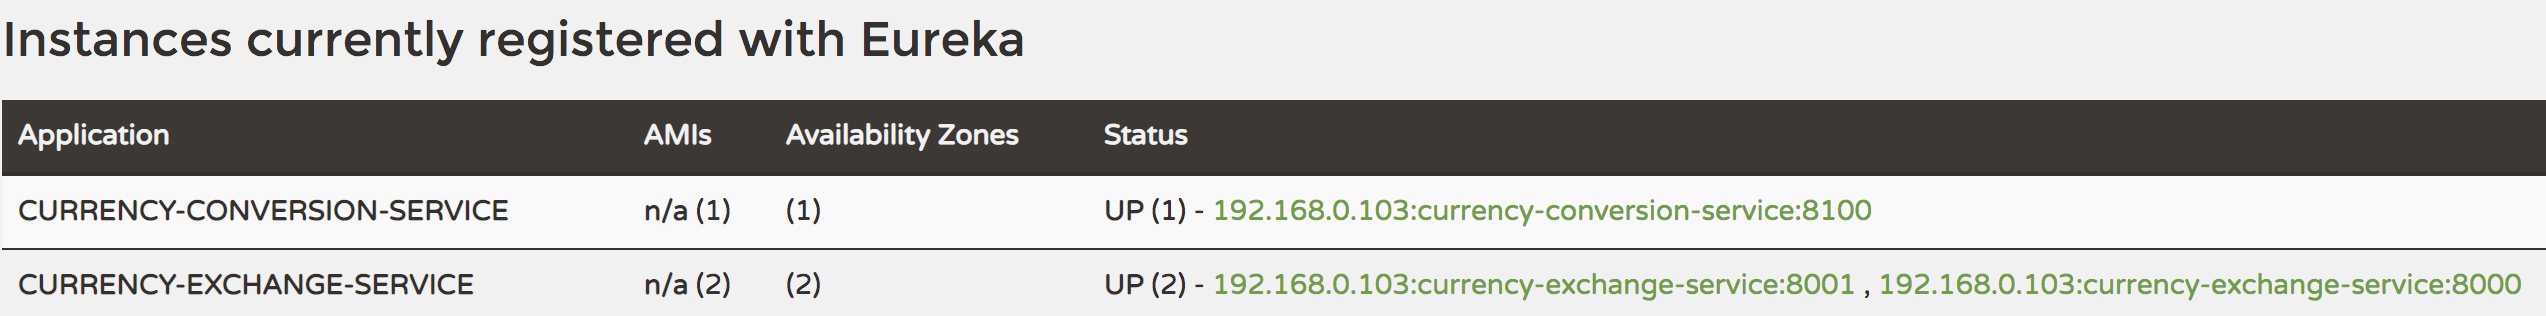
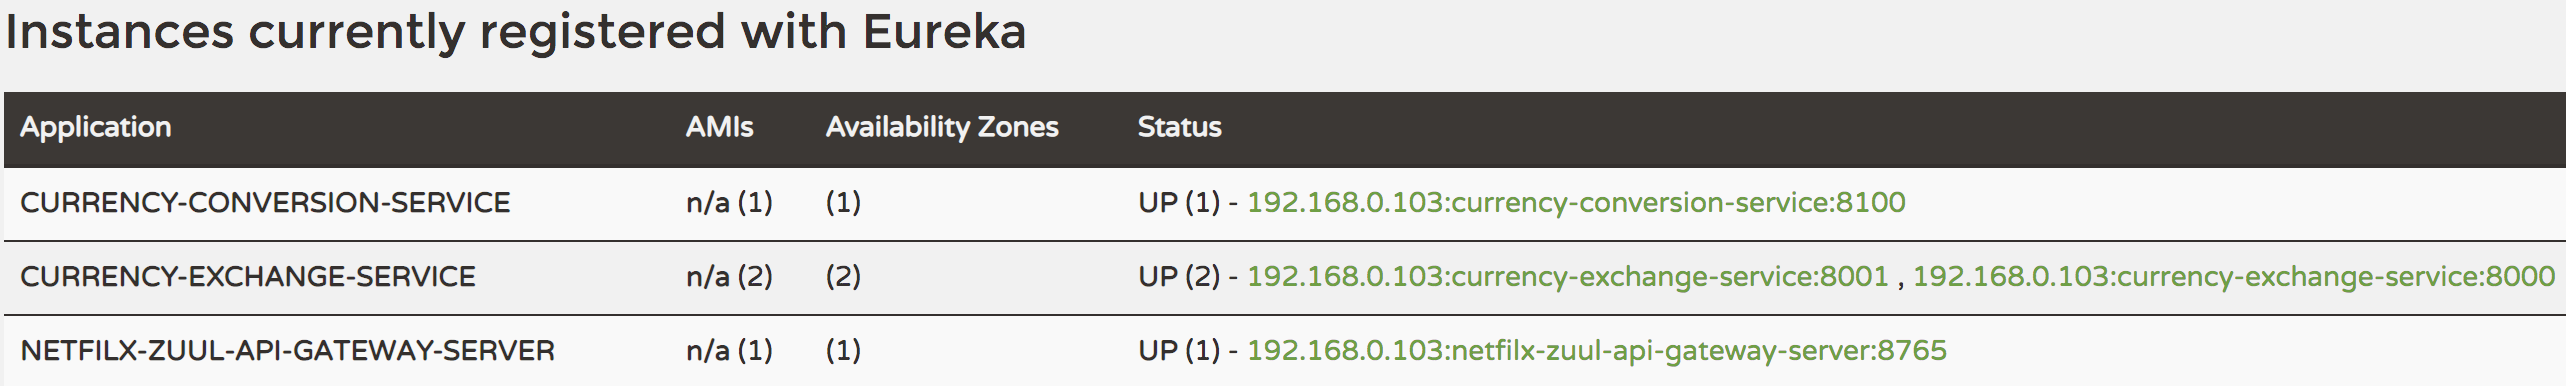
[netfilx-zuul] added logging filter in zuul api server

diff --git a/netfilx-zuul-api-gateway-server/src/main/java/org/hsahu/microservices/zuulserver/ZuulLoggingFilter.java b/netfilx-zuul-api-gateway-server/src/main/java/org/hsahu/microservices/zuulserver/ZuulLoggingFilter.java
@@ -1,0 +1,64 @@
+package org.hsahu.microservices.zuulserver;
+
+import com.netflix.zuul.ZuulFilter;
+import com.netflix.zuul.context.RequestContext;
+import com.netflix.zuul.exception.ZuulException;
+import lombok.extern.slf4j.Slf4j;
+import org.springframework.stereotype.Component;
+
+import javax.servlet.http.HttpServletRequest;
+
+/**
+ * Zuul filtering that does only logging, other filters can be related to
+ * rate limiting, logging, security etc.
+ */
+@Slf4j
+@Component
+public class ZuulLoggingFilter extends ZuulFilter {
+
+    /**
+     * to classify a filter by type. Standard types in Zuul are
+     * "pre" for pre-routing filtering (before executing the request),
+     * "post" for post-routing filters (after executing the request),
+     * "error" for error handling (when request execution hs thrown any error).
+     *
+     * @return A String representing that type
+     */
+    @Override
+    public String filterType() {
+        return "pre";
+    }
+
+    /**
+     * if multiple ZuulFilters are added, filters will be applied based or ordering
+     *
+     * @return the int order of a filter
+     */
+    @Override
+    public int filterOrder() {
+        return 1;
+    }
+
+    /**
+     * a "true" return from this method means that the run() method should be invoked
+     *
+     * @return true if the run() method should be invoked. false will not invoke the run() method
+     */
+    @Override
+    public boolean shouldFilter() {
+        return true;
+    }
+
+    /**
+     * if shouldFilter() is true, this method will be invoked. this method is the core method of a ZuulFilter
+     *
+     * @throws ZuulException if an error occurs during execution.
+     */
+    @Override
+    public Object run() throws ZuulException {
+        HttpServletRequest request = RequestContext.getCurrentContext().getRequest();
+        // just log the request
+        log.info("request -> {}, request URI -> {}", request, request.getRequestURI());
+        return null;
+    }
+}

diff --git a/netfilx-zuul-api-gateway-server/README.md b/netfilx-zuul-api-gateway-server/README.md
@@ -8,3 +8,39 @@ Common features that needs to implemented for all microservices.
 * Service aggregation
 
 Instead of calling microservices directly, all the calls will go through API gateway. Api gateway will take care of providing common features as listed above.
+
+### Calling microservices using netflix zuul api gateway
+
+#### Conventional microservice URL
+
+```bash
+http://{application_host}:{application_port}/{uri}
+```
+
+#### Equivalent URL to execute request via netflix zuul API gateway
+```bash
+http://{zuul_server_host}:{zuul_server_port}/{application_name}/{uri}
+```
+
+for example `http://localhost:8000/currency-exchange/from/USD/to/INR`  is direct microservice URL
+where
+* `application_host` is `localhost`
+* `application_port` is `8000`
+* `uri` is `/currency-exchange/from/USD/to/INR`
+* `application_name` is `currency-exchange-service` as defined in application.properties file with
+property name as `spring.application.name`.
+
+since zuul server is running on localhost:7865 so
+* `zuul_server_host` is `loalhost`
+* `zuul_server_port` is `8765`
+
+zuul equivalent URL is `http://localhost:8765/currency-exchange-service/currency-exchange/from/USD/to/INR` .
+
+similarly, zuul equivalent endpoint for `http://localhost:8100/currency-converter/from/USD/to/INR/quantity/500` will be
+`http://localhost:8765/currency-conversion-service/currency-converter/from/USD/to/INR/quantity/500`.
+
+### Troubleshooting
+1. all microservices and zuul api gateway servers are registered and discovered by eureka naming server.
+2. make sure application name for each microservice are put correctly.
+3. make sure all microservices along with zuul services are visible in eureka naming server.
+![eureka discovery](../images/eureka-discovery.png)
